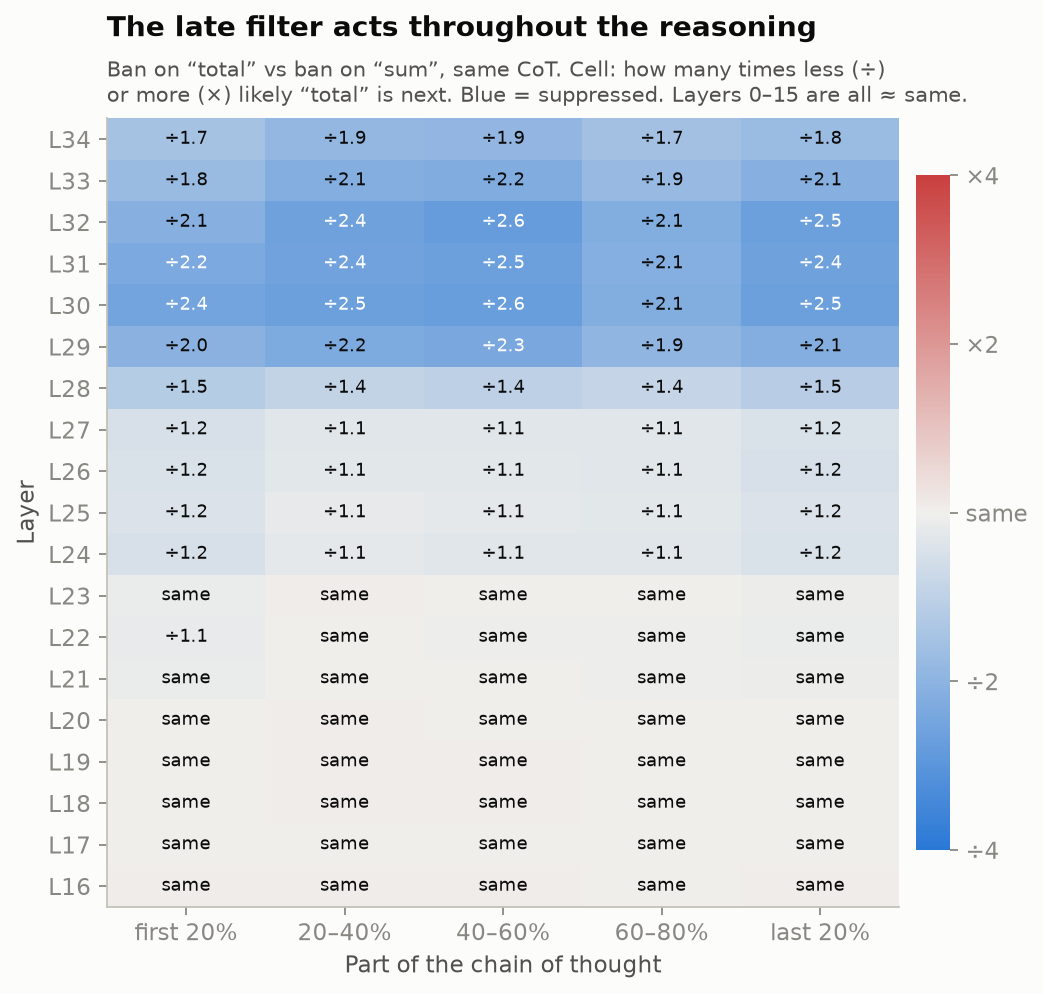
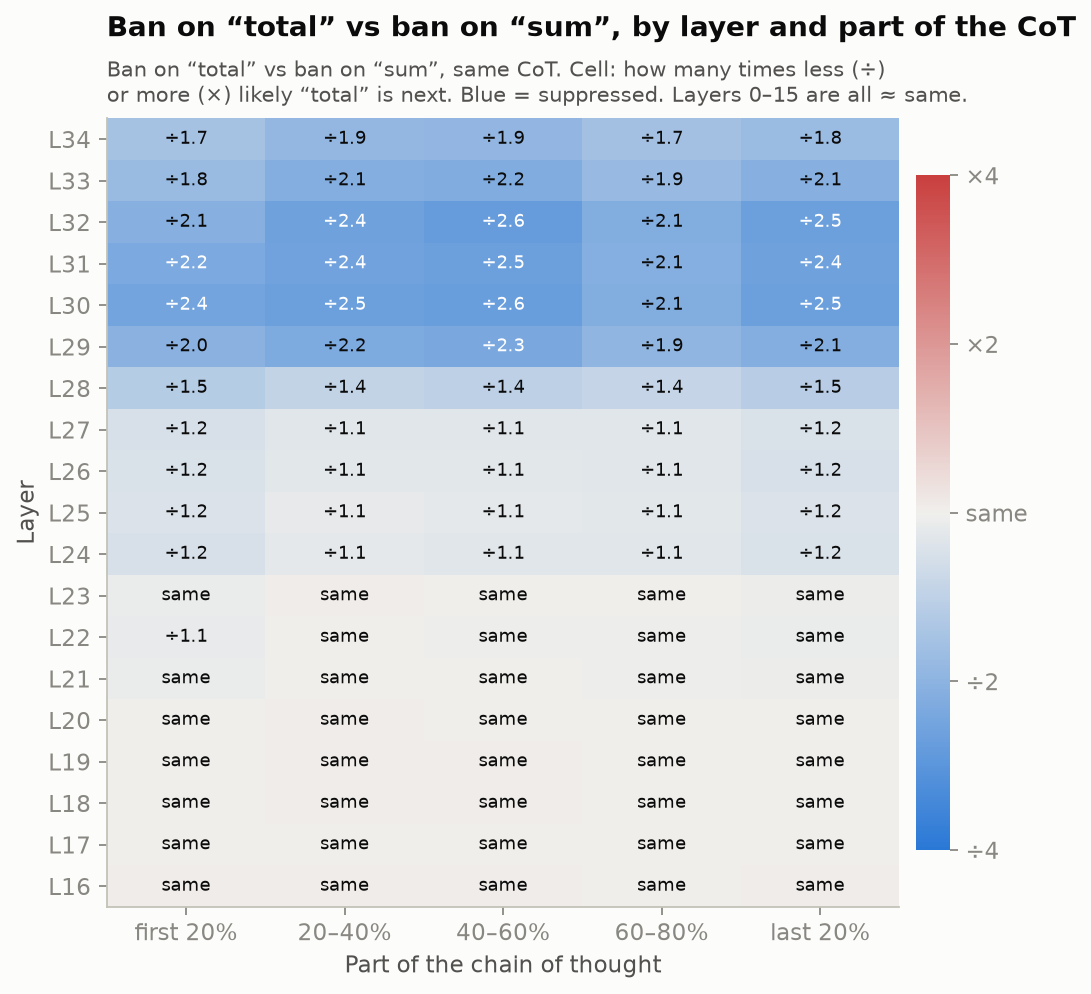
Use descriptive figure titles; add factor figures
Takeaway titles written for "total" were wrong for "factor" (e.g. no
mid-network boost in meta sentences), so titles now say what is compared
and the takeaways live in each experiment's README captions. Finer
multiplier ticks (1.25x) for small effects. Figures for experiment 2 from
outputs/forbidden_word_factor/20261007-155444 and
outputs/forbidden_word_factor_swap/20261007-161658.

diff --git a/experiments/forbidden_word/report.py b/experiments/forbidden_word/report.py
@@ -39,7 +39,7 @@ REF = "#898781"  # reference series / muted ink
 INK, INK_2, GRID, AXIS, SURFACE = "#0b0b0b", "#52514e", "#e1e0d9", "#c3c2b7", "#fcfcfb"
 LATE_BAND = (24, 34)  # where the word-specific suppression sits in Qwen3-8B
 N_LENS_LAYERS = 35  # layers 0..34
-MULTIPLIERS = (1 / 16, 1 / 8, 1 / 4, 1 / 2, 2 / 3, 1, 1.5, 2, 4)
+MULTIPLIERS = (1 / 16, 1 / 8, 1 / 4, 1 / 2, 2 / 3, 0.8, 1, 1.25, 1.5, 2, 4)
 
 CI = list[dict[str, float]]  # per layer: {"mean", "lo", "hi", "n"}
 
@@ -105,8 +105,9 @@ def _multiplier_axis(ax: Axes, ylabel: str) -> None:
     """Log-difference axis labelled as plain multipliers."""
     lo, hi = ax.get_ylim()
     ticks = [m for m in MULTIPLIERS if lo <= math.log(m) <= hi]
-    if len(ticks) > 6:
-        ticks = [m for m in ticks if m not in (2 / 3, 1.5)]
+    for coarse in ((0.8, 1.25), (2 / 3, 1.5)):  # drop the finest steps while crowded
+        if len(ticks) > 6:
+            ticks = [m for m in ticks if m not in coarse]
     ax.set_yticks([math.log(m) for m in ticks], [_multiplier_label(m) for m in ticks])
     ax.set_ylabel(ylabel)
 
@@ -169,7 +170,7 @@ def fig_swap_contrasts(swap: dict[str, Any], w: Words, out: Path) -> Path:
     paired = swap["by_cot"]["forbid"]["paired"]
     t, o = w.q(w.target), w.q(w.other)
     fig = _contrast_figure(
-        f"Same text, different instruction: {t} is suppressed only in late layers",
+        f"Where does the ban act? Same text, two prompts, by layer ({t})",
         f"Each line compares two prompts on the identical CoT (written under the ban): how much "
         f"likelier the model is\nto say {t} next under prompt A than B. Shaded: 95% CI over "
         f"problems. Flat at “no change” = the instruction does nothing there.",
@@ -194,7 +195,7 @@ def fig_text_artifact(
     if not main.get("lens"):
         return None
     fig = _contrast_figure(
-        "Comparing different texts created a fake mid-layer effect",
+        f"Ban vs control for {w.q(w.target)}: different texts vs the same text",
         f"Ban vs control for {w.q(w.target)}, measured two ways. Dashed: each prompt read on the "
         f"CoT it wrote (texts differ).\nSolid: the same CoT read under both prompts. Only the "
         f"late drop survives when the text is held fixed.",
@@ -229,7 +230,7 @@ def fig_position_heatmap(swap: dict[str, Any], w: Words, out: Path) -> Path:
     ax.set_ylabel("Layer")
     _titles(
         ax,
-        "The late filter acts throughout the reasoning",
+        f"Ban on {w.q(w.target)} vs ban on {w.q(w.other)}, by layer and part of the CoT",
         f"Ban on {w.q(w.target)} vs ban on {w.q(w.other)}, same CoT. "
         f"Cell: how many times less (÷)\nor more (×) likely {w.q(w.target)} is next. "
         f"Blue = suppressed. Layers 0–15 are all ≈ same.",
@@ -265,7 +266,7 @@ def fig_text_rate(main: dict[str, Any], w: Words, out: Path) -> Path:
     ax.set_yticks(y, [names[c] for c in order])
     ax.set_xlabel(f"Uses of {w.q(w.target)} per 1,000 characters of reasoning (mean, 95% CI)")
     ax.set_title(
-        f"In the text, banning {w.q(w.target)} cuts its use by {cut:.0%}; banning {w.q(w.other)} does not",
+        f"Uses of {w.q(w.target)} in the reasoning (the ban cuts it by {cut:.0%})",
         loc="left",
     )
     return _save(fig, out, "text_rate.png")
@@ -278,7 +279,7 @@ def fig_violations(swap: dict[str, Any], w: Words, out: Path) -> Path | None:
         return None
     t = w.q(w.target)
     fig = _contrast_figure(
-        "Where the model breaks the rule, the filter is no stronger than usual",
+        f"Ban vs control where the next word is {t}: natural uses vs violations",
         f"Ban vs control on the same CoT, at positions where the next word is {t}. Blue: CoTs "
         f"written without a ban,\nwhere the model naturally says {t}. Orange: CoTs written under "
         f"the ban, where it said {t} anyway.",
@@ -309,7 +310,7 @@ def fig_substitutes(swap: dict[str, Any], w: Words, out: Path) -> Path | None:
     _layer_axes(ax, "late layers 24–34")
     _titles(
         ax,
-        f"Before a substitute, {w.q(w.target)} stays a strong hidden candidate until late layers",
+        f"Is {w.q(w.target)} a hidden candidate where the model writes a substitute?",
         f"Positions where the model is about to write {subs}; each CoT read under its own "
         f"prompt.\nA gap between blue and orange = under the ban the model was “thinking” "
         f"{w.q(w.target)} where it wrote the substitute.",
@@ -324,7 +325,7 @@ def fig_meta(swap: dict[str, Any], w: Words, out: Path) -> Path | None:
         return None
     t = w.q(w.target)
     fig = _contrast_figure(
-        f"Reasoning about the rule boosts {t} mid-network, then it is suppressed hardest",
+        f"Ban vs control inside meta sentences vs ordinary reasoning ({t})",
         f"Ban vs control on the same CoT. Orange: inside meta sentences, where the model talks "
         f"about the word\n(“the problem says not to use the word {t}”). Above “no change” = "
         f"{t} likelier because of the ban.",
